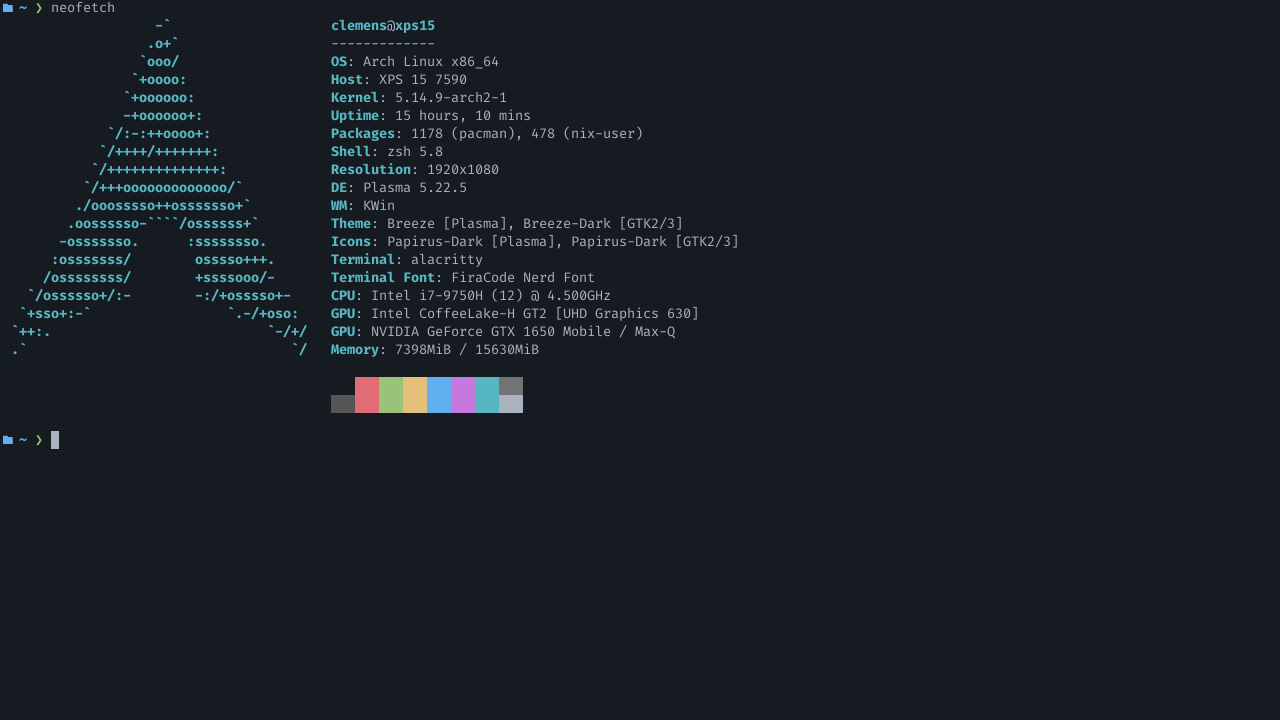
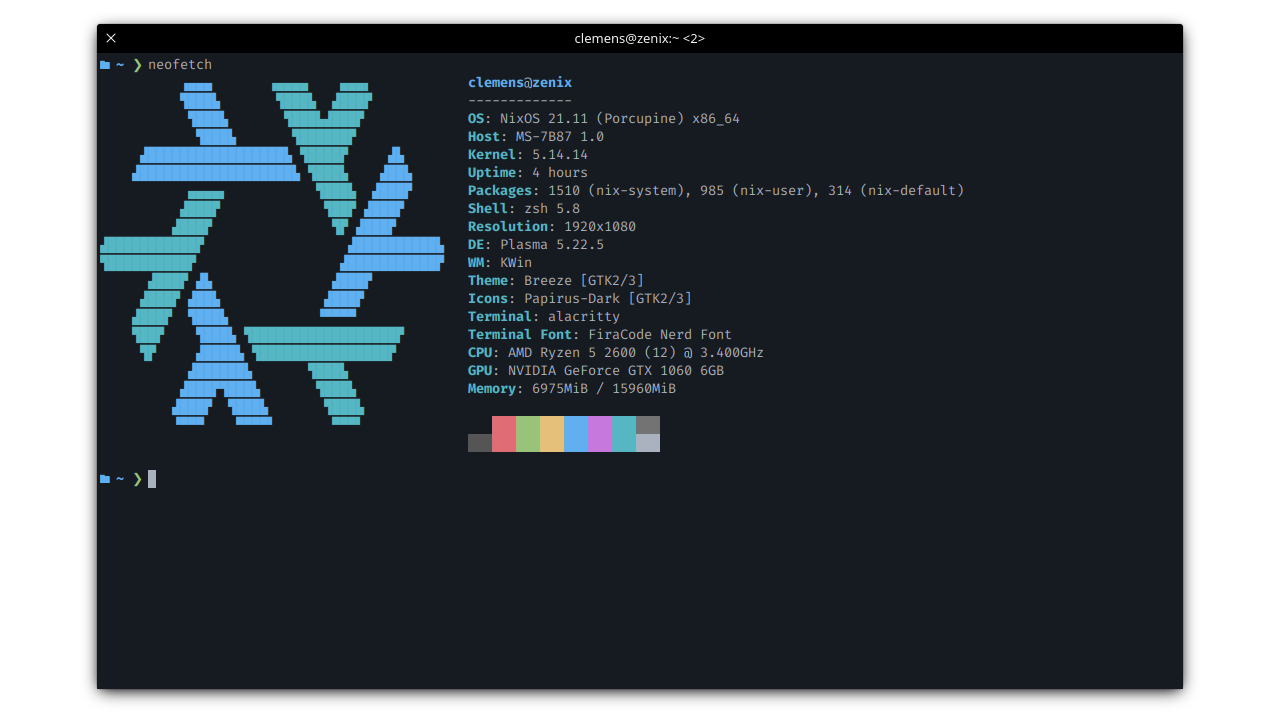
linux_setup - update content (#24)
* linux_setup - update content

* update screenshots

* adapt image subtitles

* add more content

* update screenshot with scaling

* fix linting

* fix typo and change title

* update test

* fix wrong h size in test

* fix some typos

diff --git a/pages/linux_setup.vue b/pages/linux_setup.vue
@@ -2,30 +2,69 @@
   <div class="linux_setup">
     <h1> My Linux Setup </h1>
     <Gallery />
-    <a href="https://github.com/clemak27/linux_setup">dotfiles etc.</a>
+    <a href="https://github.com/clemak27/linux_setup">dotfiles etc. are here</a>
 
     <div>
-      <h2> Some software I use: </h2>
-      <ul>
-        <li> KDE Plasma </li>
-        <li> rofi </li>
-        <li> firefox </li>
-        <li> alacritty </li>
-        <li> neovim </li>
-        <li> tmux </li>
-        <li> fzf </li>
-        <li> ranger </li>
-      </ul>
-    </div>
+      <h2> My journey so far </h2>
 
-    <div>
-      <h2> Nix </h2>
       <p>
-        Recently, I have also been experimenting with the nixOS package manager. Specifially, I use home-manager to manage my dotfiles and development environment. I like that I have a central place to manage my configuration independent of purpose and handware of a machine and in a reproducable way.
+        My Linux journey took me to many distributions over the years:
       </p>
-    </div>
 
-    <div id="btw">i use arch btw</div>
+      <div>
+        <h5> Linux Mint </h5>
+        <p>
+          Guess everyone had to start somewhere ¯\_(ツ)_/¯ For the things I did back then, which was mostly taking notes for university classes and some simple programming, it was ok. Cinnamon was also fine at the beginning, coming from windows.
+        </p>
+      </div>
+
+      <div>
+        <h5> Ubuntu </h5>
+        <p>
+          After that, I used vanilla Ubuntu for a while (back in a time where it was still kinda ok and not full of snaps). I thought the way GNOME worked with the different workspaces was cool.
+        </p>
+      </div>
+
+      <div>
+        <h5> Kubuntu </h5>
+        <p>
+          I soon switched to KDE Plasma in the form of Kubuntu. Which was awesome, all the things you could customize. The whole set of KDE software is also more up my alley than their GNOME equivalents.
+        </p>
+      </div>
+
+      <div>
+        <h5> Manjaro </h5>
+        <p>
+          While I was occasionally still dual booting windows until now, it was finally time to use Linux all the time, also on my desktop PC. I needed and wanted more up to date software for this, so I switched to a rolling release distro and ended up with Manjaro. The few months I used it, it was quite ok, and also supported my hardware well. That said, there were and still are some concerns with Manjaro (there a good writeup <a href="https://manjarno.snorlax.sh/">here</a>). So I just went to use Arch proper.
+        </p>
+      </div>
+
+      <div>
+        <h5> Arch Linux </h5>
+        <p>
+          Despite the common opinion, I found Arch actually be easy to install, the guide in the archwiki is pretty detailed. I also soon began documenting and automating the install process to fit my needs in case I wanted to start fresh. That said, Arch has been extremely stable for me and the legendary wiki and a community has a wealth of knowledge if one encounters problems.
+        </p>
+        <p>
+          In the years I used Arch, I also learned a lot of new things about the inner workings of Linux. This was also the time-period where I learned to love vim, which I use daily now. While still staying with Plasma most of the time, I also used i3 for a while (and took one or 2 looks what GNOME is up to)
+        </p>
+        <p>
+          While Arch really is awesome (and I would everyone interested in Linux to at least try it out for a while) there were also a few things that annoyed me. As already said, I documented my whole setup and ended up with some pretty convoluted install scripts. That said, such scripts take also time to maintain, and testing them would usually mean spinning up a VM etc. Not to mention the not-so-nice experience of not writing down a magic command that fixes an issue.
+        </p>
+      </div>
+
+      <div>
+        <h5> NixOS </h5>
+        <p>
+          I eventually came to know the nix ecosystem. After using the (community made) home-manager tool to manage my dotfiles, I recently took the plunge and replaced Arch with NixOS.
+        </p>
+        <p>
+          There are 2 things I find great about Nix: The whole system-configuration in declared in one file, and the system is setup exactly the way it is defined, with all packages and customizations. The second is the awesome nix_shell, that creates local development environments in an awesome way. Want to see how your node14 application works with node 16? Just create a nix-shell without screwing up your global install or setting up nvm.
+        </p>
+        <p>
+          Despite still being fresh, I am satisfied with Nix so far. There are still things to optimize and learn (e.g. flakes), but that's half the fun :D
+        </p>
+      </div>
+    </div>
   </div>
 </template>
 
@@ -45,7 +84,7 @@ li {
   font-weight: bold;
 }
 
-#btw {
- font-size: 7px;
+h2 {
+  margin-top: 1em;
 }
 </style>

diff --git a/cypress/integration/basic.spec.js b/cypress/integration/basic.spec.js
@@ -20,10 +20,14 @@ describe('Basic tests', () => {
   context('Linux Setup', () => {
     it('contains content', () => {
       cy.visit('/linux_setup')
-      cy.get('.linux_setup').get('h1').contains('My Linux Setup')
+      cy.get('.linux_setup').get('h2').contains('My journey so far')
       cy.get('.linux_setup').get('#carousel')
-      cy.get('.linux_setup').get('h2').contains('Some software I use:')
-      cy.get('.linux_setup').get('h2').contains('Nix')
+      cy.get('.linux_setup').get('h5').contains('Linux Mint')
+      cy.get('.linux_setup').get('h5').contains('Ubuntu')
+      cy.get('.linux_setup').get('h5').contains('Kubuntu')
+      cy.get('.linux_setup').get('h5').contains('Manjaro')
+      cy.get('.linux_setup').get('h5').contains('Arch Linux')
+      cy.get('.linux_setup').get('h5').contains('NixOS')
     })
   })
 

diff --git a/components/Gallery.vue b/components/Gallery.vue
@@ -14,7 +14,7 @@
       @sliding-end="onSlideEnd"
     >
       <b-carousel-slide
-        caption="neofetch :)"
+        caption="neofetch"
         img-src="~/assets/linux_setup/nf.png"
       />
 
@@ -29,13 +29,13 @@
       />
 
       <b-carousel-slide
-        caption="A tmux-session with multiple panes"
-        text="tty-clock, bottom, ranger, pipes.sh"
+        caption="Multiple applications"
+        text="Firefox, alacritty and Dolphin"
         img-src="~/assets/linux_setup/mult.png"
       />
 
       <b-carousel-slide
-        caption="neovim"
+        caption="tmux+neovim"
         img-src="~/assets/linux_setup/neovim.png"
       />
     </b-carousel>
